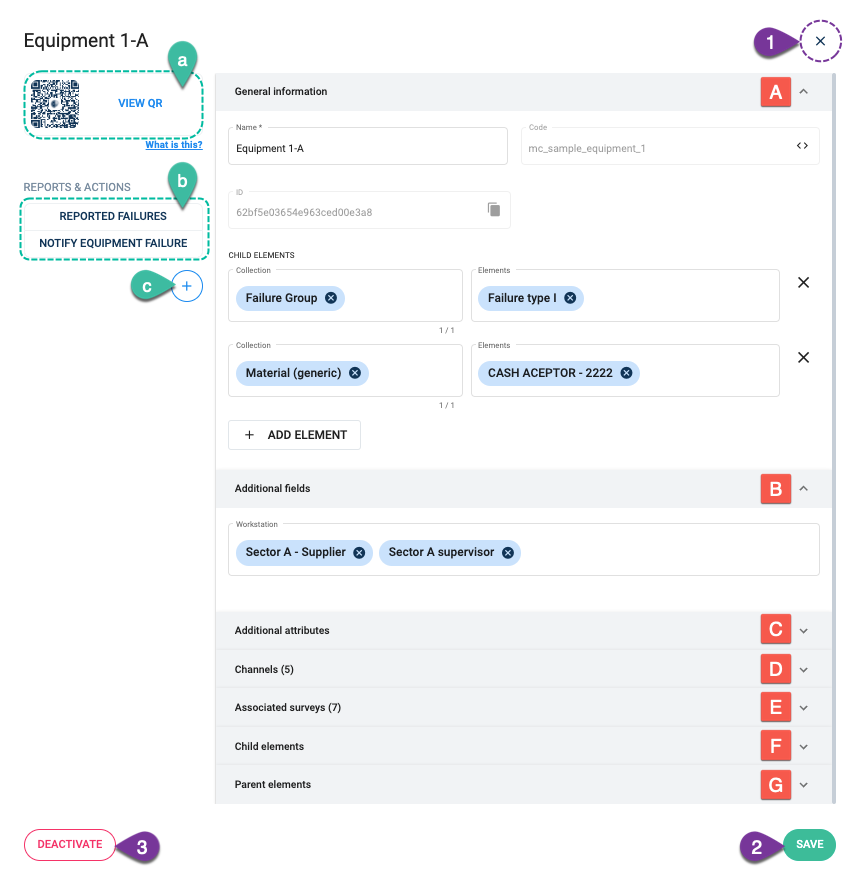
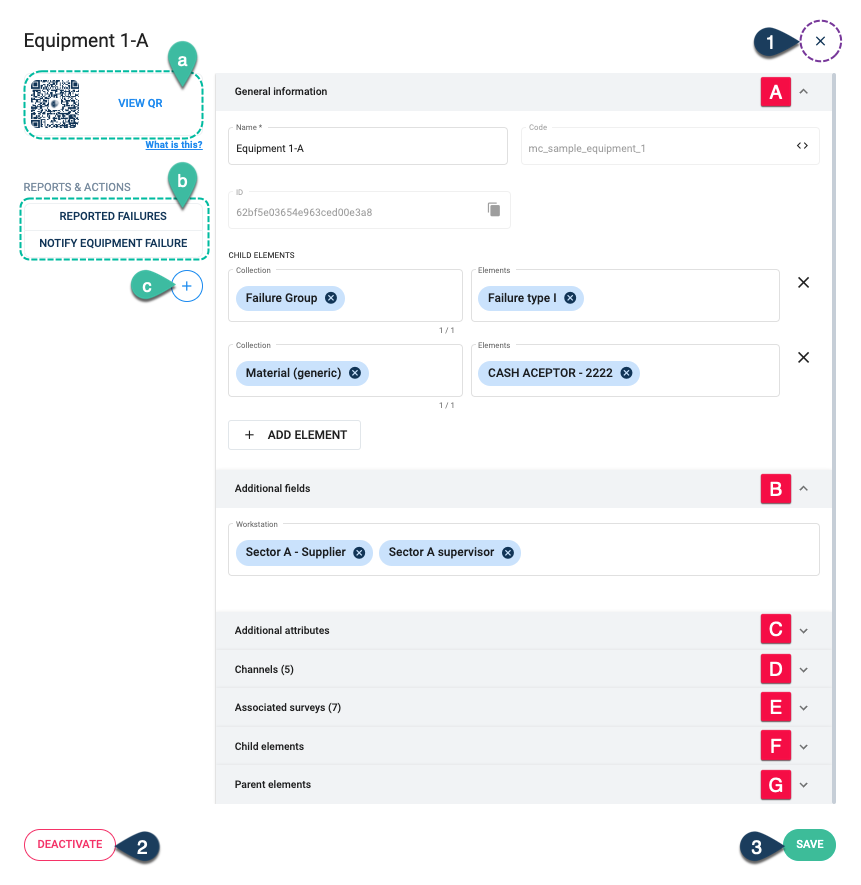
admin and client

diff --git a/sidebars.js b/sidebars.js
@@ -129,6 +129,31 @@ module.exports = {
                 'documentation/admin/database/admin_database_overview',
                 'documentation/admin/database/admin_collections',
                 'documentation/admin/database/admin_elements',
+                {
+                  type: 'category',
+                  label: 'Asset Viewer',
+                  link: {
+                    type: 'doc',
+                    id: 'documentation/admin/database/asset_viewer',
+                  },
+                  items: [
+                    'documentation/admin/database/asset_qr',
+                    {
+                      type: 'category',
+                      label: 'Reports & Actions',
+                      link: {
+                        type: 'doc',
+                        id: 'documentation/admin/database/asset_reports_actions',
+                      },
+                      items: [
+                        'documentation/admin/database/asset_tasks',
+                        'documentation/admin/database/asset_actions',
+                        'documentation/admin/database/asset_forms',
+                      ]
+                    }
+                  ],
+                  collapsed: true,
+                }
               ],
               collapsed: true,
             },

diff --git a/docs/documentation/admin/database/admin_elements.md b/docs/documentation/admin/database/admin_elements.md
@@ -82,30 +82,35 @@ From within the _Elements Panel_, you can edit an existing _element_ by pressing
 _Elements can also be edited from within the [Database](/docs/documentation/client/database) tool._
 :::
 
-_The following settings panel appears when you choose to edit an element:_
+_The [asset viewer](/docs/documentation/admin/database/asset_viewer) opens up when you choose to edit an element:_
 
 <img alt="edit/create element" className="img_sizing item shadow--tl" src={useBaseUrl('img/admin_elements_04.png')} />
 <br/>
 
-_Actions:_
-- **1. Close**: Closes the settings panel without saving changes.
-- **2. Save**: Saves the element with the latest changes made.
-- **3. Deactivate/Activate**: Makes the element available or unavailable in the collection.
-
 _Special Features:_
-- **a.** Displays the element's [**QR code**](/docs/documentation/client/database). 
-- **b.** Displays previously created [**reports or actions**](/docs/documentation/client/database).
-- **c.** Creates a [**report or action**](/docs/documentation/client/database) associated with the element.
+- **<span className="badge badge--success">a.</span>** Displays the element's [**QR code**](/docs/documentation/admin/database/asset_qr). 
+- **<span className="badge badge--success">b.</span>** Displays previously created [**reports or actions**](/docs/documentation/admin/database/asset_reports_actions).
+- **<span className="badge badge--success">c.</span>** Creates a [**report or action**](/docs/documentation/admin/database/asset_reports_actions) associated with the element.
+
+_Actions:_
+- **<span className="badge badge--primary">1.</span> Close**: Closes the settings panel without saving changes.
+- **<span className="badge badge--primary">2.</span> Deactivate/Activate**: Makes the element available or unavailable in the collection.
+- **<span className="badge badge--primary">3.</span> Save**: Saves the element with the latest changes made.
 
 _Settings:_
-- [**A. General information**](#general-information): Basic element information and associated child elements.
-- [**B. Additional fields**](#additional-fields): Set or edit additional field values.
-- [**C. Additional attributes**](#additinal-attributes): Adds extra information. Deprecated, only used on legacy systems.
-- [**D. Channels**](#channels): Displays channels associated with the element.
-- [**F. Associated surveys**](#associated-surveys): Displays survey answers associated with the element.
-- [**G. Child elements**](#child-elements): Displays a list of any child elements.
-- [**H. Parent elements**](#parent-elements): Displays a list of any parent elements.
+- [**<span className="badge badge--danger">A.</span> General information**](#general-information): Basic element information and associated child elements.
+- [**<span className="badge badge--danger">B.</span> Additional fields**](#additional-fields): Set or edit additional field values.
+- [**<span className="badge badge--danger">C.</span> Additional attributes**](#additinal-attributes): Adds extra information. Deprecated, only used on legacy systems.
+- [**<span className="badge badge--danger">D.</span> Channels**](#channels): Displays channels associated with the element.
+- [**<span className="badge badge--danger">E.</span> Associated surveys**](#associated-surveys): Displays survey answers associated with the element.
+- [**<span className="badge badge--danger">F.</span> Child elements**](#child-elements): Displays a list of any child elements.
+- [**<span className="badge badge--danger">G.</span> Parent elements**](#parent-elements): Displays a list of any parent elements.
 
+:::info Special Features
+Go to the [**Asset Viewer**](/docs/documentation/admin/database/asset_viewer) section for more details about _special features_: 
+- [QR Code](/docs/documentation/admin/database/asset_qr)
+- [Reports & Actions](/docs/documentation/admin/database/asset_reports_actions)
+:::
 
 ## Settings Details {#settings}
 

diff --git a/docs/documentation/admin/database/asset_viewer.md b/docs/documentation/admin/database/asset_viewer.md
@@ -1,0 +1,37 @@
+---
+title: Asset Viewer
+sidebar_label: Asset Viewer
+---
+import useBaseUrl from '@docusaurus/useBaseUrl';
+import Highlight from '@theme/Highlight';
+
+<span className="hero__subtitle">Overview</span>
+
+
+The **asset viewer** gives admins and non-administrative users access to _element_ information and tools in one place.
+
+:::info
+- The **asset viewer** can be accessed through the [Elements settings panel](/docs/documentation/admin/database/admin_elements#edit-element) or the [Database viewer](/docs/documentation/client/database).
+- _Reports & actions_ can only be created when accessed through the _Elements settings panel_.
+:::
+
+<img alt="asset viewer" className="img_sizing item shadow--tl" src={useBaseUrl('img/asset_viewer_00.png')} />
+<br/>
+
+
+_In summary, from the asset viewer, you can:_
+
+- **<span className="badge badge--danger">A.</span>** [View the element's **QR code**](/docs/documentation/admin/database/asset_qr)
+- **<span className="badge badge--success">B.</span>** [View, create, and edit **reports & actions**](/docs/documentation/admin/database/asset_reports_actions)
+- **<span className="badge badge--warning">C.</span>** [Edit **elements**](/docs/documentation/admin/database/admin_elements#edit-element) 
+
+
+_Other actions:_
+- **<span className="badge badge--primary">D.</span> Close**: Closes the settings panel without saving changes. Clicking outside the asset window will also bring you back to the database viewer.
+- **<span className="badge badge--primary">E.</span> Deactivate/Activate**: Makes the element available or unavailable in the collection.
+- **<span className="badge badge--primary">F.</span> Save**: Saves the element with the latest changes made.
+
+
+
+
+

diff --git a/docs/documentation/admin/database/asset_reports_actions.md b/docs/documentation/admin/database/asset_reports_actions.md
@@ -1,0 +1,8 @@
+---
+title: Asset Reports & Actions
+sidebar_label: Reports & Actions
+---
+import useBaseUrl from '@docusaurus/useBaseUrl';
+import Highlight from '@theme/Highlight';
+
+<span className="hero__subtitle">Asset Viewer</span>

diff --git a/docs/documentation/admin/database/asset_actions.md b/docs/documentation/admin/database/asset_actions.md
@@ -1,0 +1,8 @@
+---
+title: Tasks Actions
+sidebar_label: Task Actions
+---
+import useBaseUrl from '@docusaurus/useBaseUrl';
+import Highlight from '@theme/Highlight';
+
+<span className="hero__subtitle">Reports & Actions</span>

diff --git a/docs/documentation/admin/database/asset_tasks.md b/docs/documentation/admin/database/asset_tasks.md
@@ -1,0 +1,8 @@
+---
+title: Asset Tasks
+sidebar_label: Asset Tasks
+---
+import useBaseUrl from '@docusaurus/useBaseUrl';
+import Highlight from '@theme/Highlight';
+
+<span className="hero__subtitle">Reports & Actions</span>

diff --git a/docs/documentation/admin/database/asset_qr.md b/docs/documentation/admin/database/asset_qr.md
@@ -1,0 +1,8 @@
+---
+title: Asset QR Code
+sidebar_label: Asset QR Code
+---
+import useBaseUrl from '@docusaurus/useBaseUrl';
+import Highlight from '@theme/Highlight';
+
+<span className="hero__subtitle">Asset Viewer</span>

diff --git a/docs/documentation/admin/database/asset_forms.md b/docs/documentation/admin/database/asset_forms.md
@@ -1,0 +1,8 @@
+---
+title: Task Forms
+sidebar_label: Task Forms
+---
+import useBaseUrl from '@docusaurus/useBaseUrl';
+import Highlight from '@theme/Highlight';
+
+<span className="hero__subtitle">Reports & Actions</span>
